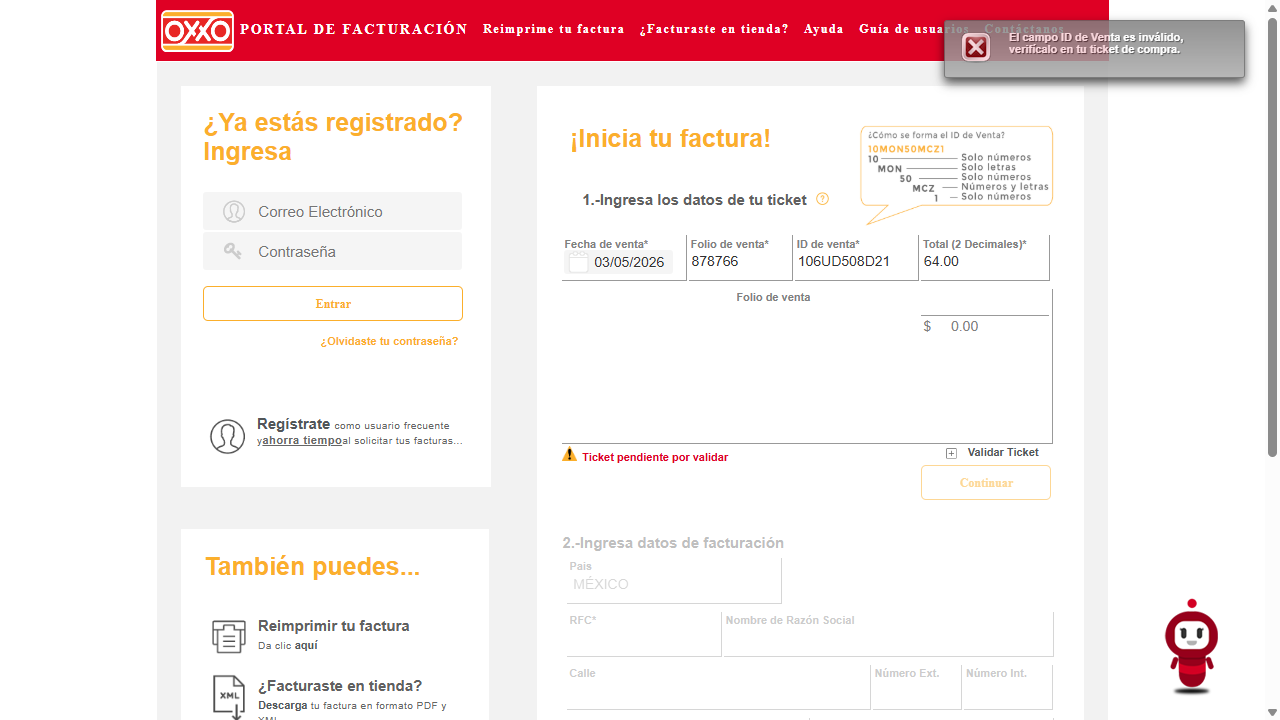
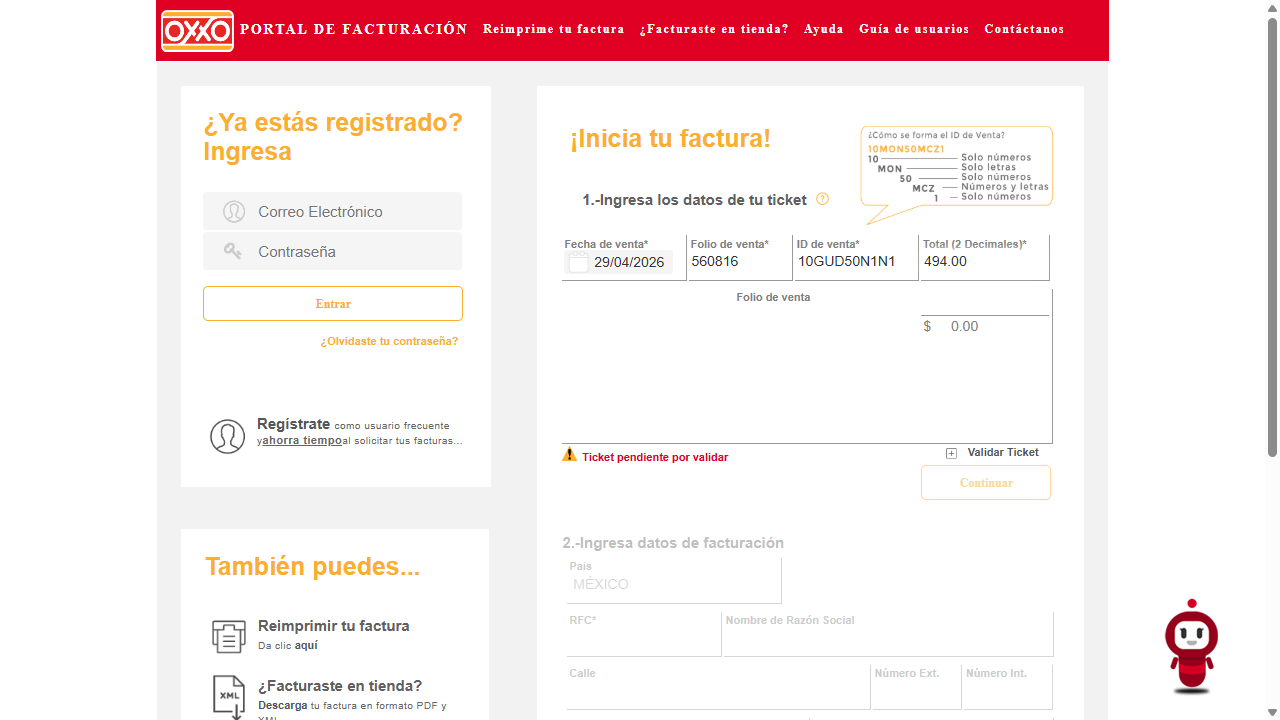
Lee mensaje de error del portal para reintentos inteligentes

diff --git a/portal.py b/portal.py
@@ -23,16 +23,14 @@ async def facturar_ticket(datos_ticket: dict):
             except Exception:
                 raise Exception("🌐 Portal de OXXO no disponible. Intenta más tarde.")
             
-            await page.wait_for_timeout(5000)
+            await page.wait_for_timeout(10000)
             
-            # Cerrar popup — si no aparece en 10 seg, continuar
-            print("Esperando popup...")
+            print("Cerrando popup...")
             try:
-                await page.wait_for_selector('.ui-dialog-titlebar-close', timeout=10000)
                 await page.evaluate("""
-                    Array.from(document.querySelectorAll('.ui-dialog-titlebar-close'))
-                        .find(el => el.getBoundingClientRect().top > 0 && el.getBoundingClientRect().top < 500)
-                        .click()
+                    var popup = Array.from(document.querySelectorAll('.ui-dialog-titlebar-close'))
+                        .find(el => el.getBoundingClientRect().top > 0 && el.getBoundingClientRect().top < 500);
+                    if (popup) popup.click();
                 """)
                 await page.wait_for_timeout(2000)
                 print("Popup cerrado.")
@@ -71,23 +69,42 @@ async def facturar_ticket(datos_ticket: dict):
             """)
             await page.wait_for_timeout(4000)
             
+            # Leer mensaje de error del growl si existe
+            mensaje_error = await page.evaluate("""
+                (() => {
+                    var growl = document.querySelector('.ui-growl-item');
+                    return growl ? growl.textContent.trim() : '';
+                })()
+            """)
+            if mensaje_error:
+                print(f"📋 Mensaje del portal: {mensaje_error}")
+            
             # Verificar errores del portal
             contenido = await page.content()
-            if "inválido" in contenido or "invalido" in contenido.lower():
+            if "inválido" in contenido or "invalido" in contenido.lower() or "no tuvo éxito" in mensaje_error.lower():
                 await browser.close()
                 return "invalido"
             if "ya fue facturado" in contenido.lower() or "facturado previamente" in contenido.lower():
                 raise Exception("❌ Este ticket ya fue facturado anteriormente.")
             if "no han transcurrido" in contenido.lower() or "24 horas" in contenido.lower():
                 raise Exception("❌ Debes esperar 24 horas después de la compra para facturar.")
-            
+                      
             print("Continuando a datos fiscales...")
             await page.evaluate("""
                 Array.from(document.querySelectorAll('a, button, input[type=button]'))
                     .find(el => el.textContent.includes('Continuar'))
                     .click()
             """)
-            await page.wait_for_timeout(2000)
+            await page.wait_for_timeout(4000)
+            
+            # Verificar si el ticket fue aceptado
+            rfc_habilitado = await page.evaluate(
+                "(() => { var rfc = document.querySelector('input[name=\"form:rfc\"]'); return rfc ? !rfc.disabled : false; })()"
+            )
+            if not rfc_habilitado:
+                print("⚠ Ticket inválido — campos fiscales deshabilitados.")
+                await browser.close()
+                return "invalido"
             
             print("Llenando RFC...")
             await page.locator('input[name="form:rfc"]').fill(DATOS_FISCALES["rfc"])
@@ -146,7 +163,6 @@ async def facturar_ticket(datos_ticket: dict):
             """)
             await page.wait_for_timeout(5000)
             
-            # Intentar enviar por correo
             print("Ingresando correo...")
             try:
                 await page.locator('input[name="form:emailEnv"]').fill("jorgegarciatapia@live.com")
@@ -163,7 +179,6 @@ async def facturar_ticket(datos_ticket: dict):
                 print("✅ Factura enviada a jorgegarciatapia@live.com")
                 
             except Exception:
-                # Si falla el correo, descargar PDF y XML
                 print("⚠ No se pudo enviar el correo. Descargando PDF y XML...")
                 try:
                     async with page.expect_download() as download_info:
@@ -191,7 +206,6 @@ async def facturar_ticket(datos_ticket: dict):
                 except Exception:
                     print("⚠ No se pudo descargar el XML")
             
-            # Esperar 5 segundos y cerrar
             print("Cerrando navegador en 5 segundos...")
             await page.wait_for_timeout(5000)
             await browser.close()
@@ -199,18 +213,21 @@ async def facturar_ticket(datos_ticket: dict):
             
         except Exception as e:
             print(f"\n❌ Error: {e}")
-            await page.screenshot(path="error.png")
-            print("Screenshot del error guardado: error.png")
-            await page.wait_for_timeout(5000)
+            try:
+                await page.screenshot(path="error.png")
+                print("Screenshot del error guardado: error.png")
+            except:
+                pass
+            await page.wait_for_timeout(3000)
             await browser.close()
             return "error"
 
 if __name__ == "__main__":
     datos = {
-        "fecha": "03/05/2026",
-        "folio_venta": "878765",
-        "id_venta": "10GUD508DZ1",
-        "total": "42.00"
+        "fecha": "29/04/2026",
+        "folio_venta": "560818",
+        "id_venta": "10GUD50N1N1",
+        "total": "494.00"
     }
     
     asyncio.run(facturar_ticket(datos))

diff --git a/main.py b/main.py
@@ -8,20 +8,39 @@ async def main(imagen_path: str):
     print("SISTEMA DE AUTOFACTURACIÓN UVICUO")
     print("="*50)
     
-    # Paso 1: Extraer datos del ticket
-    print("\n📸 Paso 1: Extrayendo datos del ticket...")
-    datos = extraer_datos_ticket(imagen_path)
-    print(f"✅ Datos extraídos:")
-    print(f"   Fecha:  {datos['fecha']}")
-    print(f"   Folio:  {datos['folio_venta']}")
-    print(f"   ID:     {datos['id_venta']}")
-    print(f"   Total:  ${datos['total']}")
+    MAX_INTENTOS = 3
     
-    # Paso 2: Facturar en el portal
-    print("\n🤖 Paso 2: Automatizando portal de OXXO...")
-    await facturar_ticket(datos)
-    
-    print("\n🎉 ¡Proceso completado! Revisa tu correo.")
+    for intento in range(1, MAX_INTENTOS + 1):
+        try:
+            print(f"\n📸 Paso 1: Extrayendo datos del ticket (intento {intento})...")
+            datos = extraer_datos_ticket(imagen_path, intento)
+            print(f"✅ Datos extraídos:")
+            print(f"   Fecha:  {datos['fecha']}")
+            print(f"   Folio:  {datos['folio_venta']}")
+            print(f"   ID:     {datos['id_venta']}")
+            print(f"   Total:  ${datos['total']}")
+            
+            print(f"\n🤖 Paso 2: Automatizando portal de OXXO...")
+            resultado = await facturar_ticket(datos)
+            
+            if resultado == "invalido":
+                if intento < MAX_INTENTOS:
+                    print(f"\n⚠ Portal rechazó los datos. Releyendo ticket con más cuidado (intento {intento + 1})...")
+                    continue
+                else:
+                    print(f"\n❌ El portal rechazó los datos después de {MAX_INTENTOS} intentos.")
+                    print("Por favor toma una foto más clara del ticket.")
+                    break
+            elif resultado == "ok":
+                print("\n🎉 ¡Proceso completado! Revisa tu correo.")
+                break
+            else:
+                print("\n❌ Error en el proceso. Revisa los mensajes anteriores.")
+                break
+                
+        except Exception as e:
+            print(f"\n❌ Error: {e}")
+            break
 
 if __name__ == "__main__":
     if len(sys.argv) < 2:
